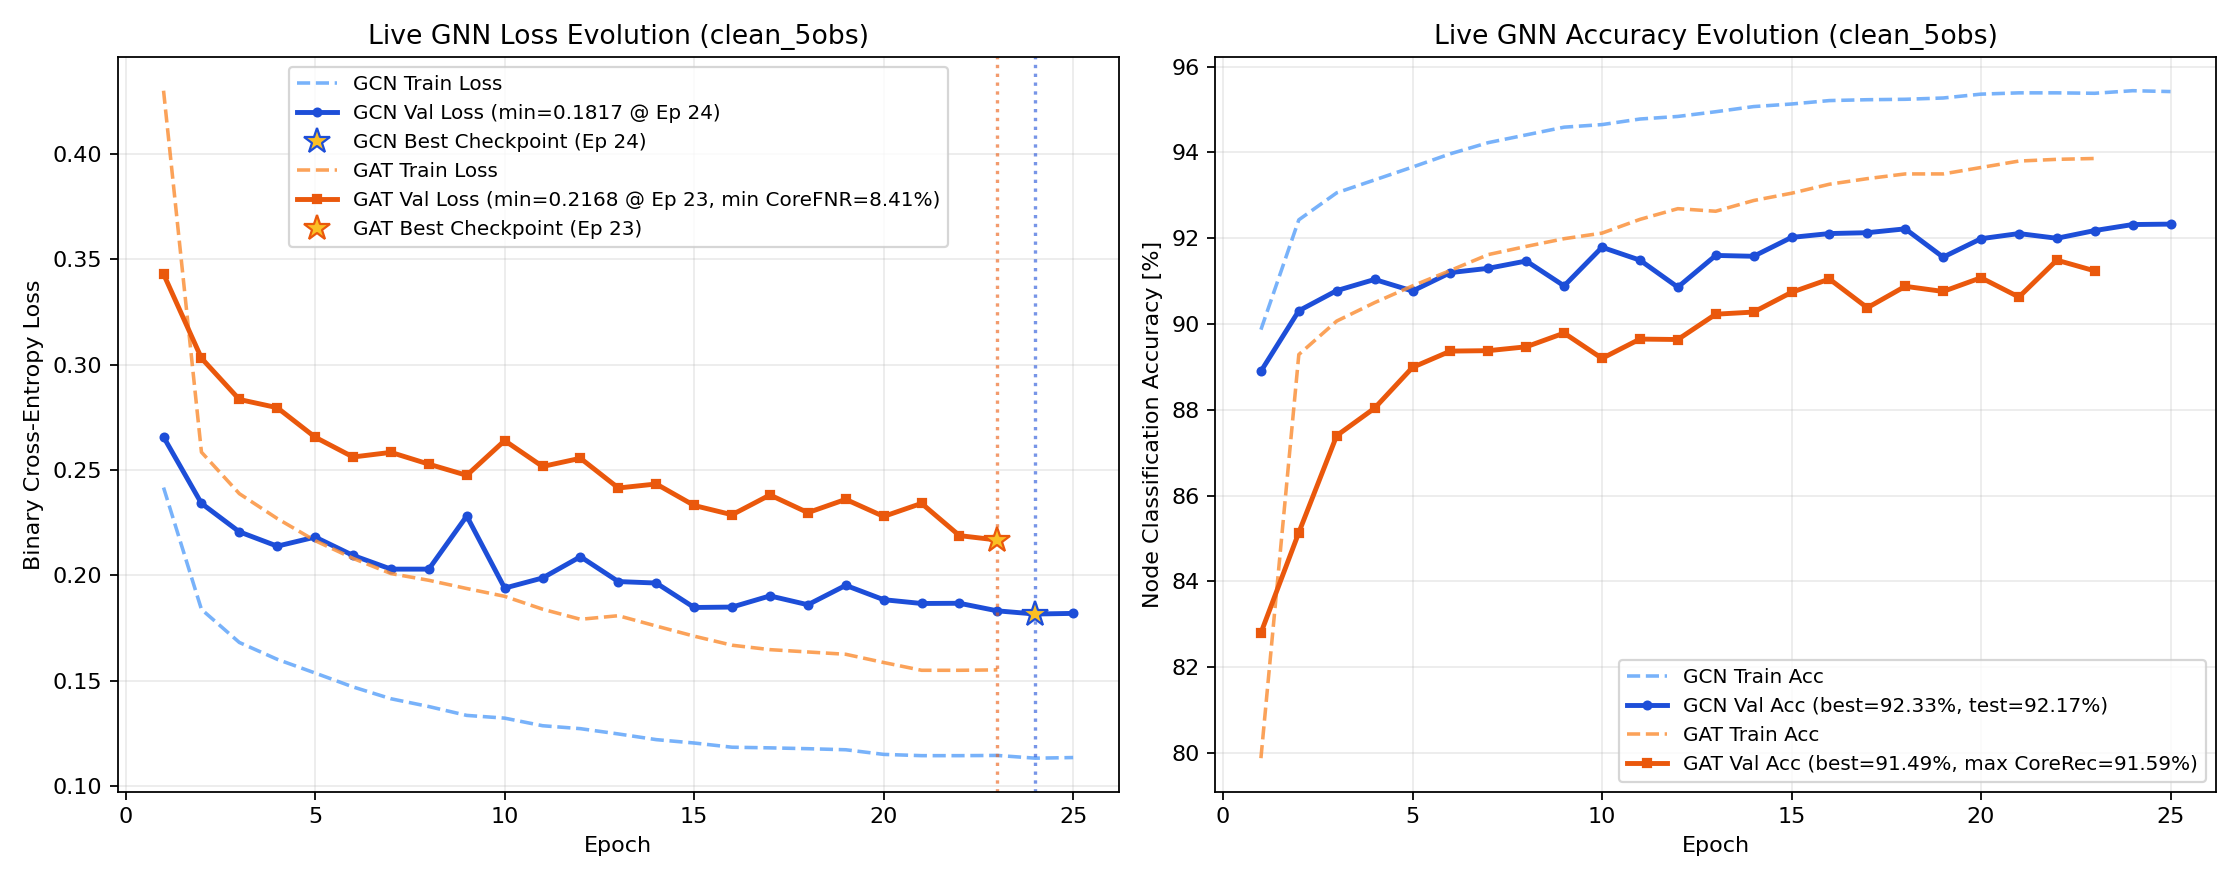
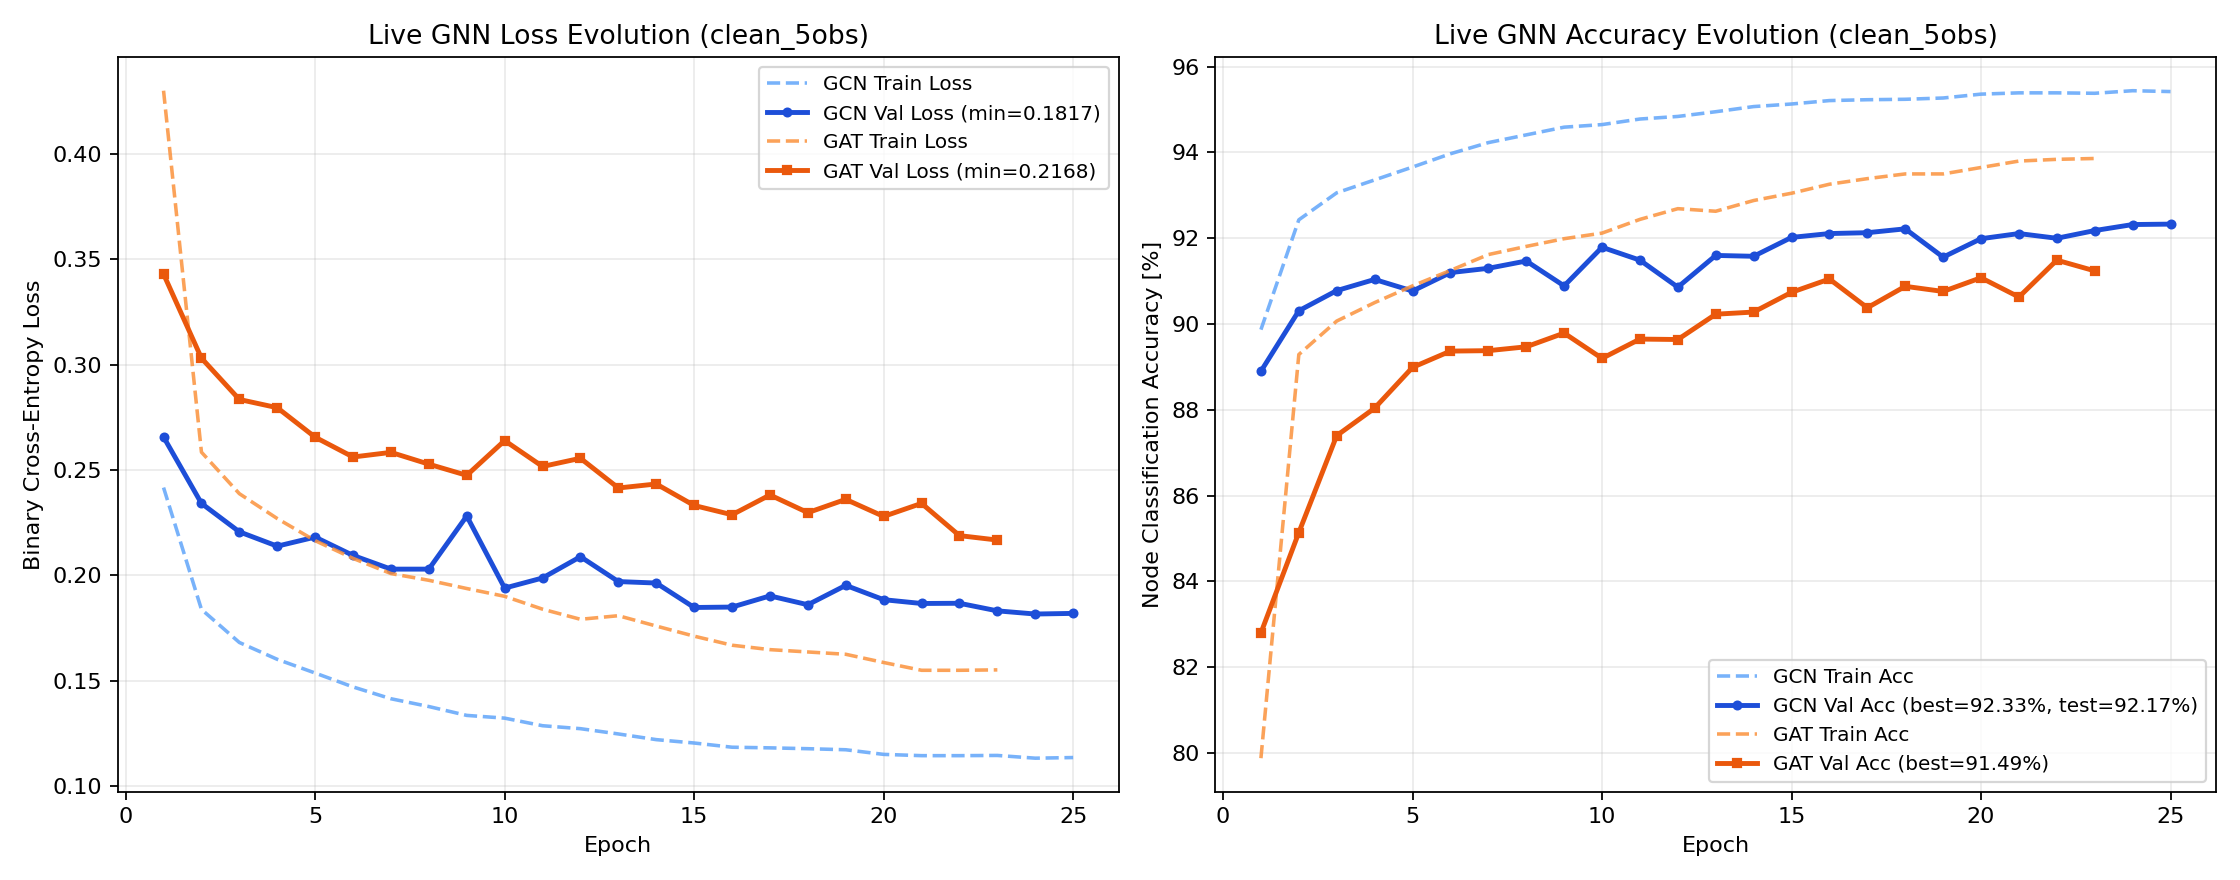
Update Study 2 live status and figures (2026-11-13 08:28)

diff --git a/LIVE_STATUS.md b/LIVE_STATUS.md
@@ -1,44 +1,30 @@
 # Live Pipeline Status on Jed
 
 ```text
-[2026-11-13 08:24:31] Study 2 Pipeline Status on Jed
+[2026-11-13 08:28:27] Study 2 Pipeline Status on Jed
 - Step 1 (Plummer ICs): 81 / 81 ready
 - Step 2 (SWIFT Runs): 81 / 81 completed (101 snapshots)
 - Step 3 (Observables): Labels=81/81 | Clean=81/81 | GaiaNoisy=81/81
 - Step 4 (5D Graphs): Clean=81/81 | GaiaNoisy=81/81
 - Step 5/6 Live GNN Training Progress:
-  * clean_5obs/training_metrics_gat_clean.log: Ep 023 | Train 0.1552 (93.86%) | Val 0.2168 (91.24%, Best=91.49%) | CoreFNR: 10.98% (min=8.41%) | Test=In progress
+  * clean_5obs/training_metrics_gat_clean.log: Ep 023 | Train 0.1552 (93.86%) | Val 0.2168 (91.24%, Best=91.49%) | Test=In progress
   * clean_5obs/training_metrics_gcn_clean.log: Ep 025 | Train 0.1136 (95.42%) | Val 0.1820 (92.33%, Best=92.33%) | Test=92.17%
   * legacy/clean_5obs_static_5rot/training_metrics_gcn_clean.log: Ep 025 | Train 0.1136 (95.42%) | Val 0.1820 (92.33%, Best=92.33%) | Test=92.17%
-- Saved Model Checkpoints (.pth): 8 mirrored in GNN-jed/trained_models/study2/weights/
 
 SLURM Queue:
 JOBID  PARTITION                   NAME   ST       TIME  NODES NODELIST(REASON)
       41146836   academic Study2_Step7_GCNStocha   PD       0:00      2 (Dependency)
 41146835_[0-4%   academic      Study2_Step6_4Obs   PD       0:00      2 (Dependency)
-      41146834   academic   Study2_Step5_Train81    R   17:39:02      2 jst[317,320]
+      41146834   academic   Study2_Step5_Train81    R   17:44:05      2 jst[317,320]
 ```
 
 ## Live Neural Network Training Metrics
 
-| Experiment | Architecture | Latest Epoch | Train Loss | Train Acc | Val Loss | Val Acc | Best Val Acc | Core FNR | Test Acc | Test F1 |
-| :--- | :---: | :---: | :---: | :---: | :---: | :---: | :---: | :---: | :---: | :---: |
-| `clean_5obs` | **GAT** | 23 | 0.1552 | 93.86% | 0.2168 | 91.24% | **91.49%** | 8.41% (val min) | **In progress** | - |
-| `clean_5obs` | **GCN** | 25 | 0.1136 | 95.42% | 0.1820 | 92.33% | **92.33%** | - | **92.17%** | 0.8886 |
-| `clean_5obs_static_5rot` | **GCN** | 25 | 0.1136 | 95.42% | 0.1820 | 92.33% | **92.33%** | - | **92.17%** | 0.8886 |
-
-## Saved Model Weights (`.pth` Checkpoints)
-
-| Checkpoint | Size | Experiment Path | Central Archive Mirror |
-| :--- | :---: | :--- | :--- |
-| `best_gat_clean.pth` | 361.2 KB | `GNN-jed/trained_models/study2/clean_5obs/best_gat_clean.pth` | `GNN-jed/trained_models/study2/weights/best_gat_clean.pth` |
-| `best_gat_clean_ep18_backup.pth` | 361.2 KB | `GNN-jed/trained_models/study2/clean_5obs/best_gat_clean_ep18_backup.pth` | `GNN-jed/trained_models/study2/weights/best_gat_clean_ep18_backup.pth` |
-| `best_gcn_clean.pth` | 120.0 KB | `GNN-jed/trained_models/study2/clean_5obs/best_gcn_clean.pth` | `GNN-jed/trained_models/study2/weights/best_gcn_clean.pth` |
-| `best_gat_clean_ep18_backup.pth` | 361.2 KB | `GNN-jed/trained_models/study2/legacy/clean_5obs_static_5rot/best_gat_clean_ep18_backup.pth` | `GNN-jed/trained_models/study2/weights/best_gat_clean_ep18_backup.pth` |
-| `best_gcn_clean.pth` | 120.0 KB | `GNN-jed/trained_models/study2/legacy/clean_5obs_static_5rot/best_gcn_clean.pth` | `GNN-jed/trained_models/study2/weights/best_gcn_clean.pth` |
-| `best_gat_clean.pth` | 361.2 KB | `GNN-jed/trained_models/study2/legacy/weights/best_gat_clean.pth` | `GNN-jed/trained_models/study2/weights/best_gat_clean.pth` |
-| `best_gat_clean_ep18_backup.pth` | 361.2 KB | `GNN-jed/trained_models/study2/legacy/weights/best_gat_clean_ep18_backup.pth` | `GNN-jed/trained_models/study2/weights/best_gat_clean_ep18_backup.pth` |
-| `best_gcn_clean.pth` | 120.0 KB | `GNN-jed/trained_models/study2/legacy/weights/best_gcn_clean.pth` | `GNN-jed/trained_models/study2/weights/best_gcn_clean.pth` |
+| Experiment | Architecture | Latest Epoch | Train Loss | Train Acc | Val Loss | Val Acc | Best Val Acc | Test Acc | Test F1 |
+| :--- | :---: | :---: | :---: | :---: | :---: | :---: | :---: | :---: | :---: |
+| `clean_5obs` | **GAT** | 23 | 0.1552 | 93.86% | 0.2168 | 91.24% | **91.49%** | **In progress** | - |
+| `clean_5obs` | **GCN** | 25 | 0.1136 | 95.42% | 0.1820 | 92.33% | **92.33%** | **92.17%** | 0.8886 |
+| `clean_5obs_static_5rot` | **GCN** | 25 | 0.1136 | 95.42% | 0.1820 | 92.33% | **92.33%** | **92.17%** | 0.8886 |
 
 ## Real-Time GNN Learning Curves (Loss & Accuracy Evolution)
 
